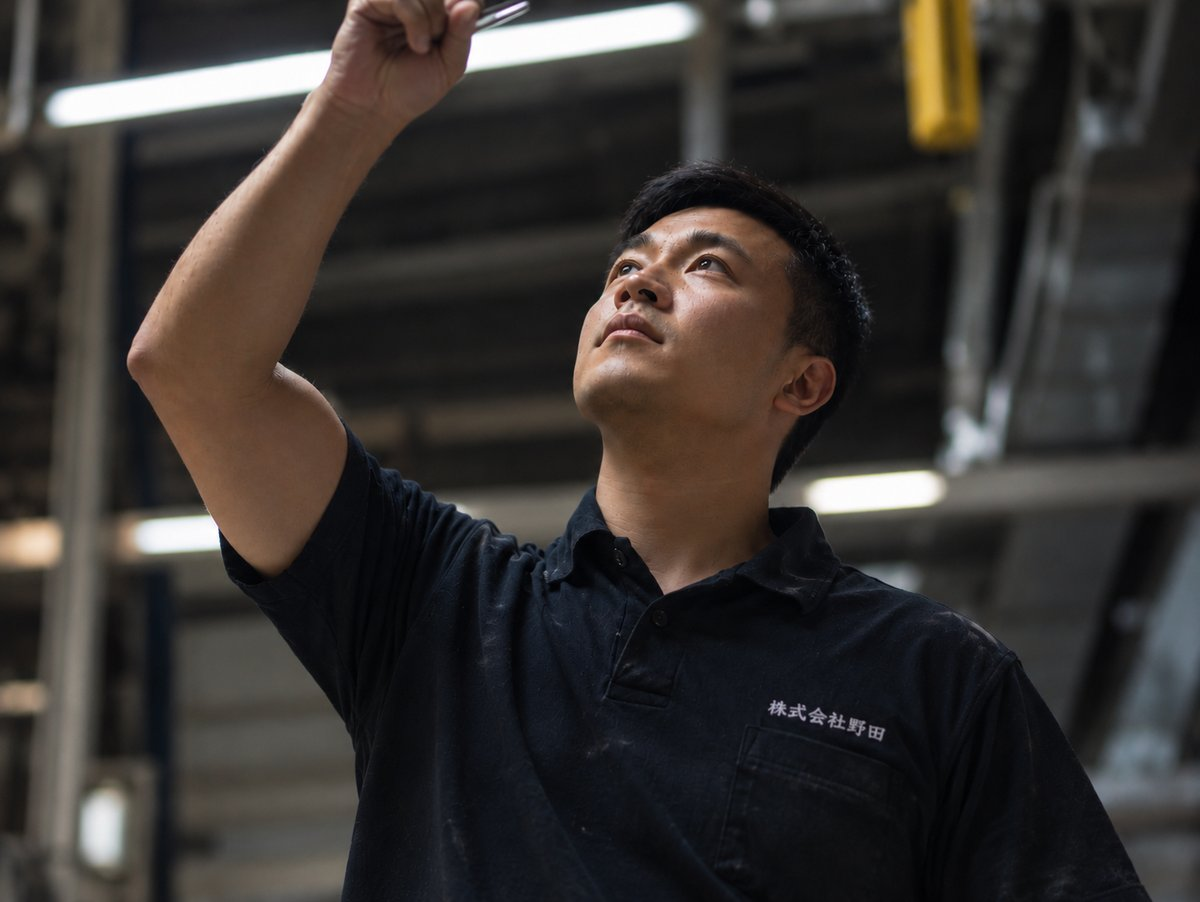
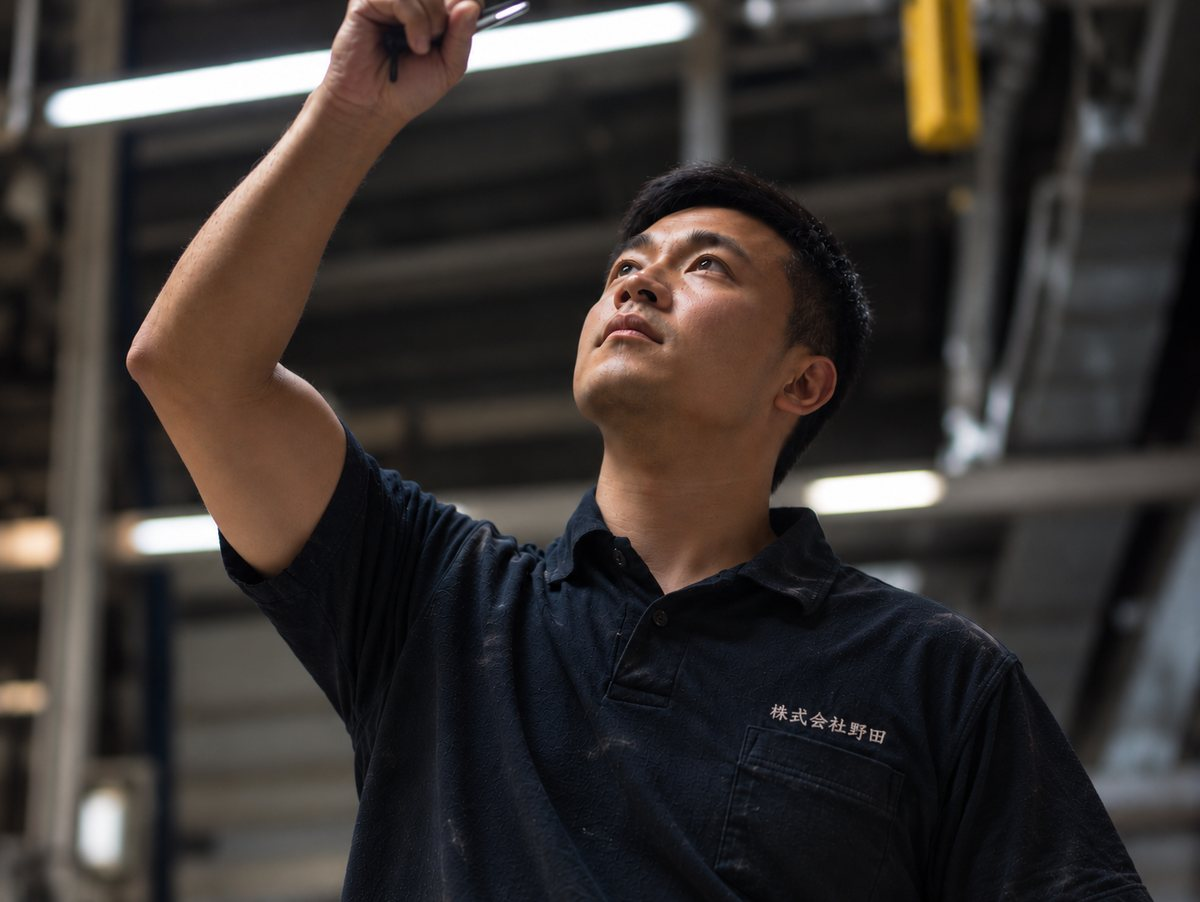
トップの職人の写真を Boss の再作成版に入れ替え
Claude-Session: https://claude.ai/code/session_01DdXC7ESWouB9X5foU46cUt

diff --git a/app/pages/home.php b/app/pages/home.php
@@ -1,6 +1,6 @@
 <?php
 // 人物のAI画像は現行サイトと同じ場所に一時的に戻している（Boss 2026-10-22。Boss が1枚ずつ差し替えを依頼する）。ファイル名は ai-*.jpg
-// 差し替え済み：「私たち専門業者へご相談ください」の写真 → top-craftsman.jpg（Boss 提供 2026-10-22）
+// 差し替え済み：「私たち専門業者へご相談ください」の写真 → top-craftsman.jpg（Boss 提供 2026-10-22、同日 再作成版に入れ替え）
 // トップページ。区画の順番は Boss と相談して決めた（2026-10-22）：最初の画面と流れる帯の下にお知らせ、その次に施工事例、Instagram は最後。
 $years = years_in_business();
 $feed = top_news();
